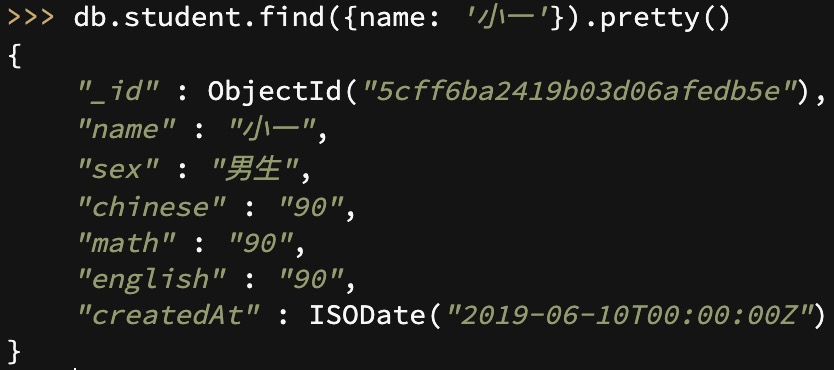
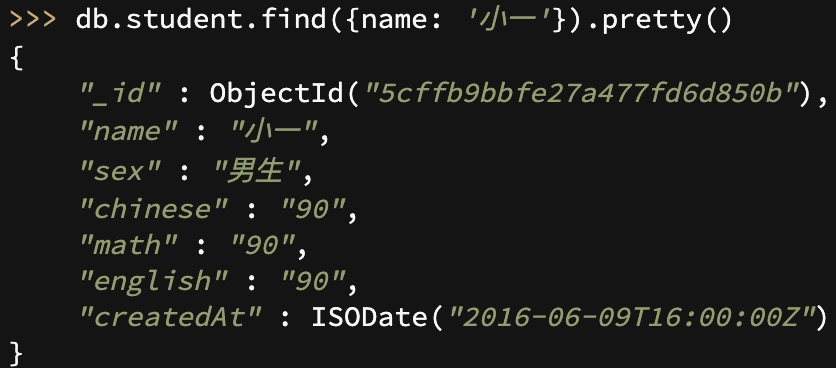
mongo update

diff --git a/mongo/README.md b/mongo/README.md
@@ -12,7 +12,7 @@
 环境安装与本篇文章的关系不大，但提供几个渠道：
 1. 跟着 `mongo` 官方文档来安装，本地启动调试；
 2. `mongo` 客户端，[Robo 3T](https://robomongo.org/)很好用哦；
-3. `mongo` 官方的[命令行小窗口](https://docs.mongodb.com/manual/tutorial/insert-documents/)（***免安装直接使用，学习推荐！！！***）。
+3. `mongo` 官方的[命令行小窗口](https://docs.mongodb.com/manual/tutorial/insert-documents/)（***免安装直接使用，学习推荐***）。
 
 ## 3.介绍
 在城市中有几所学校（`db`），我们来查看下城市中的学校都有哪些
@@ -24,34 +24,48 @@
 ## 4.插入
 学校（`test`）到了期末考试，成绩如下：
 
-| 姓名 | 性别 | 语文 | 数学 | 英语 |
-|:---:|:---:|:---:|:---:|:---:|
-| 小一 | 男生 | 90 | 90 | 90 |
-| 小二 | 女生 | 80 | 80 | 80 |
-| 小三 | 男生 | 70 | 70 | 70 |
+| 姓名 | 性别 | 语文 | 数学 | 英语 | 参加考试时间 |
+|:---:|:---:|:---:|:---:|:---:|:---:|
+| 小一 | 男生 | 90 | 90 | 90 | 2019年6月10号 |
+| 小二 | 女生 | 80 | 80 | 80 | 2019年6月10号 |
+| 小三 | 女生 | 70 | 70 | 70 | 2019年6月10号 |
+| 小四 | 女生 | 60 | 60 | 60 | 2019年6月12号 |
 
 成绩出来后老师把分数录入成绩系统。
 ```javascript
 // 插入的方法：insertOne插入一条数据
-db.student.insertOne({ name: "小一", sex: '男生', chinese: '90', math: '90', english: '90', createdAt: new Date('2019-06-10')})
+db.student.insertOne({ 
+  name: "小一", 
+  sex: '男生', 
+  chinese: '90', 
+  math: '90', 
+  english: '90', 
+  createdAt: new Date('2016-06-09T16:00:00Z')
+})
 ```
 ![4-1](./4-1.jpg)
+
+> 注意：`new Date('2016-06-09T16:00:00Z')`是世界标准时间，`mongo`记录的也是世界标准时间。中国在东八区，时间加8小时，换算过来刚好是2019年6月10号。
 
 老师觉得一个个添加太烦了，所以一次性添加：
 ```javascript
 // // 插入的方法：insertMany 插入一条数据
 db.student.insertMany([
-  { name: "小三", sex: '女生', chinese: '80', math: '80', english: '80', createdAt: new Date('2019-06-10')},
-  { name: "小三", sex: '女生', chinese: '70', math: '70', english: '70', createdAt: new Date('2019-06-10')}
+  { name: "小二", sex: '女生', chinese: '80', math: '80', english: '80', createdAt: new Date('2016-06-09T16:00:00Z')},
+  { name: "小三", sex: '女生', chinese: '70', math: '70', english: '70', createdAt: new Date('2016-06-09T16:00:00Z')},
+  { name: "小四", sex: '女生', chinese: '60', math: '60', english: '60', createdAt: new Date('2016-06-11T16:00:00Z')}
 ])
 ```
 ![4-2](./4-2.jpg)
+
+> 1. 学校（`db`）：数据库，`mongo`可以容纳多个数据库，默认使用`test`；
+> 2. 学生集合（`student`）：集合，可以理解为集合所有学生的班级；
+> 3. 学生信息（`data`）：文档，可以理解为单个学生信息。
 
 ## 5.修改
 老师突然发现，小三其实是女装大佬，老师被骗恼羞成怒，于是修改其性别。
 ```javascript
 // 更新方法：updateOne
-
 db.student.updateOne(
   { name: '小三' },
   { $set: { sex: '女装大佬' }}
@@ -75,18 +89,16 @@ db.student.updateOne(
 ```javascript
 // 查询方法：find
 // pretty方法可以让数据更好看
-db.student.find({name: '小一'})
+db.student.find({name: '小一'}).pretty()
 ```
 ![6-1](./6-1.jpg)
 
-然后再查小二和小三的成绩。
+然后再查小二和小三的成绩。他突然发现小三是女装大佬的事实，震惊！
 ```javascript
 // 查询方法：find
-db.student.find({$or: [{name: '小二'}, {name: '小三'}]})
+db.student.find({$or: [{name: '小二'}, {name: '小三'}]}).pretty()
 ```
 ![6-2](./6-2.jpg)
-
-他突然发现小三是女装大佬的事实，震惊！
 
 > 其中 `$or` 是查询操作符，告诉 `mongo` 需要对符合的数据进行什么操作。用法差不多，列举部分如下（更多[查询操作符](https://docs.mongodb.com/manual/reference/operator/query/)）：
 > 1. [$eq](https://docs.mongodb.com/manual/reference/operator/query/eq/#op._S_eq)：匹配等于指定值的值。
@@ -111,11 +123,11 @@ db.student.deleteOne({name: '小三'})
 ```javascript
 // 遍历方法：forEach
 db.student.find().forEach(function(doc) {
-  doc.chinese = String(doc.chinese);
-  doc.math = String(doc.math);
-  doc.english = String(doc.english);
+  doc.chinese = NumberInt(doc.chinese);
+  doc.math = NumberInt(doc.math);
+  doc.english = NumberInt(doc.english);
   db.student.save(doc);
-});
+})
 ```
 
 ![8-1](./8-1.jpg)
@@ -141,7 +153,7 @@ db.student.aggregate([
       avgEnglish: { $avg: '$english' },
     }
   }
-])
+]).pretty()
 ```
 
 ![9-1](./9-1.jpg)
@@ -159,14 +171,14 @@ db.student.aggregate([
 > 9. [$month](https://docs.mongodb.com/v2.6/reference/operator/aggregation/month/#exp._S_month)：以1（1月）到12（12月）之间的数字返回日期的月份；
 > 10. [$dayOfMonth](https://docs.mongodb.com/v2.6/reference/operator/aggregation/dayOfMonth/#exp._S_dayOfMonth)：以1到31之间的数字返回日期的月中某天。
 
-老师发现上面的计算方式是计算所有的学生的成绩，而这次只需要计算这次期末考试成绩，修改如下：
+老师发现上面的计算方式是计算所有的学生的成绩，而这次只需要计算2019年6月10号考试成绩，修改如下：
 ```javascript
 db.student.aggregate([
   {
     $match: {
       createdAt: {
-        $gte: new Date('2019-06-09T16:00:00+00:00'),
-        $lte: new Date('2019-06-10T16:00:00+00:00')
+        $gte: new Date('2016-06-09T16:00:00Z'),
+        $lte: new Date('2016-06-10T16:00:00Z')
       }
     },
   },
@@ -195,7 +207,7 @@ db.student.aggregate([
       avgEnglish: { $avg: '$english' },
     }
   }
-])
+]).pretty()
 ```
 
 ![9-2](./9-2.jpg)
@@ -236,10 +248,10 @@ db.student.mapReduce(
     return reducedVal;
   }, 
   {
-    query: {createdAt: {$gt: new Date('2019-06-09T16:00:00+00:00'), $lt: new Date('2019-06-10T16:00:00+00:00')}}, 
+    query: {createdAt: {$gte: new Date('2016-06-09T16:00:00Z'), $lte: new Date('2016-06-10T16:00:00Z')}}, 
     out: 'sum'
   }
-).find();
+).find().pretty()
 ```
 ![9-3](./9-3.jpg)
 上面 `mongo` 语句的意思是：
